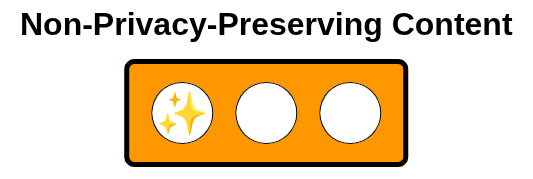
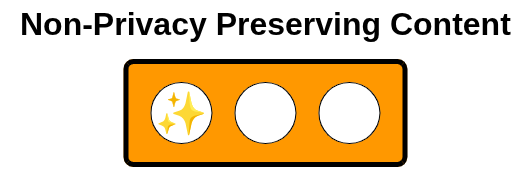
docs(readme) minor editing fix

diff --git a/badges_html/badge_definition.html b/badges_html/badge_definition.html
@@ -55,7 +55,7 @@
 <div class="icon-column">
 
   <div class="icon">
-    <div class="label">Non-Privacy-Preserving Content</div>
+    <div class="label">Non-Privacy Preserving Content</div>
     <div class="container-orange">
       <div class="light selected">✨</div>
       <div class="light selected"></div>
@@ -64,7 +64,7 @@
   </div>
 
   <div class="icon">
-    <div class="label">Non-Privacy-Preserving Content</div>
+    <div class="label">Non-Privacy Preserving Content</div>
     <div class="container-orange">
       <div class="light selected">✨</div>
       <div class="light selected">📎</div>
@@ -73,7 +73,7 @@
   </div>
 
   <div class="icon">
-    <div class="label">Non-Privacy-Preserving Content</div>
+    <div class="label">Non-Privacy Preserving Content</div>
     <div class="container-orange">
       <div class="light selected">✨</div>
       <div class="light selected">📎</div>

diff --git a/README.md b/README.md
@@ -1,4 +1,4 @@
-The Gen-AI Content Protocol (GCP) allows authors to clearly declare the use of generative AI tools in documents, while self-assessing their understanding of the associated risks and implications. Specifically, the GCP provides a human-friendly, easy-to-adopt taxonomy that describes how generative AI tools have been used. This taxonomy defines three badges different badges: non–Gen-AI assisted, Gen-AI assisted (private), and Gen-AI assisted.
+The Gen-AI Content Protocol (GCP) allows authors to clearly declare the use of generative AI tools in documents, while self-assessing their understanding of the associated risks and implications. Specifically, the GCP provides a human-friendly, easy-to-adopt taxonomy that describes how generative AI tools have been used. This taxonomy defines three different badges: Human-Authored Content, Privacy-Preserving Content and Non-Privacy Preserving Content.
 
 ![Alt text](badges_png/gcp_badges_sample.png)
 
@@ -13,10 +13,10 @@ The GPD protocol categorizes the usage of generative AI tools into three differe
 - **Human-Authored Content (⚪)**: The content is fully created by humans. No generative AI tools were used at any stage of content creation, editing, or refinement. 
 
 
-- **Privacy-Preserving AI-Assisted Content (🔵)**:The tools follow documented protocols ensuring that submitted data is not stored, reused, or incorporated into model training.
+- **Privacy-Preserving AI-Assisted Content (🔵)**: The document includes sections that were created or refined using generative AI tools. Nevertheless, the tools used clearly define protocols that ensure the data is not stored, reused, or incorporated into model training.s
 
 
-- **Non-privacy-preserving AI-content (🟠)**: Generative AI tools were used without explicit guarantees regarding data retention, reuse, or training. In most cases, the privacy and future use of the provided data cannot be fully assured 
+- **Non-privacy Preserving AI-Assisted Content (🟠)**: The  document includes sections that were created or refined using generative AI tools. These tools were used without explicit guarantees regarding data retention, reuse, or model training. In most cases, the privacy and future use of the provided data cannot be fully assured.
 
 
 Further for AI-asisted content it is described the level of gen-AI usage:  
@@ -25,10 +25,11 @@ Further for AI-asisted content it is described the level of gen-AI usage:
 - **Language Editing only (✨)**: Generative AI tools are used exclusively to improve grammar, spelling, clarity, and writing style. The core ideas of the content remain entirely original and are produced by the author. The AI does not introduce new information or arguments. 
 
 
-- **AI-Assisted Content Generation (📎)** : The document include sections or paragraphs generated with the assistance of AI tools. In this level, the authorship is original but guided flavoured by generative AI tools. As a result, the generated portions may reflect biases inherent in the sources and train data of the generative AI tool. 
+- **AI-Assisted Content Generation (📎)** : The document includes sections or paragraphs generated with the assistance of AI tools. At this level, the authorship remains original but is influenced by generative AI tools. As a result, the generated portions may reflect biases inherent in the sources and training data.
 
 
-- **AI-Generated Content (⚙)**: The document is entirely generated by generative AI tools, with minimal or no human authorship involved in the creation of the content. Consequently, the output may be influenced by biases present in the AI’s training data, sources, or model assumptions. 
+- **AI-Generated Content (⚙)**: 
+The document is entirely generated by generative AI tools, with minimal or no human authorship involved in the creation of the content. Consequently, the output may be influenced by biases present in the AI’s training data, sources, or model assumptions. 
 
 
 
@@ -41,7 +42,7 @@ Simply select the badge that suits your content and include it in your document.
       <th>Category</th>
       <th>Badge</th>
       <th>Description</th>
-      <th>When to use</th>
+      <th>When to use?</th>
     </tr>
   </thead>
   <tbody>
@@ -61,7 +62,7 @@ Simply select the badge that suits your content and include it in your document.
         <img src="badges_png/privacy_preserving_1.png" alt="privacy-preserving" width="440" height="120">
       </td>
       <td> Language Editing only</td>
-      <td rowspan="3">Scientific papers, anonymized research reports, internal documentation, University reports and thesis.</td>
+      <td rowspan="3">Scientific papers, anonymized research reports, internal documentation, University reports and thesis (Language Editing only).</td>
     </tr>
     <tr>
       <td>
